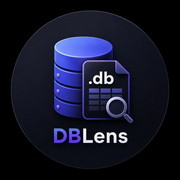
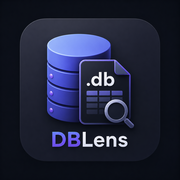
Add files via upload

diff --git a/index.html b/index.html
@@ -69,7 +69,7 @@ body{font-family:-apple-system,BlinkMacSystemFont,'Segoe UI','Inter',Roboto,sans
   animation:fi .5s ease}
 @keyframes fi{from{opacity:0;transform:translateY(10px)}to{opacity:1;transform:none}}
 .l-logo{display:flex;align-items:center;gap:12px;font-size:26px;font-weight:800;letter-spacing:-.5px}
-.l-icon{width:52px;height:52px;border-radius:50%;object-fit:cover;flex-shrink:0}
+.l-icon{width:52px;height:52px;border-radius:14px;object-fit:cover;flex-shrink:0}
 .l-sub{color:var(--t2);font-size:13px;text-align:center;max-width:400px}
 #dz{width:100%;max-width:460px;border:none;border-radius:var(--rl);
   padding:36px 24px;text-align:center;cursor:pointer;background:var(--bg2);transition:all .22s;user-select:none}
@@ -161,7 +161,7 @@ body{font-family:-apple-system,BlinkMacSystemFont,'Segoe UI','Inter',Roboto,sans
   gap:6px;z-index:100;position:relative}
 .h-logo{display:flex;align-items:center;gap:8px;font-weight:800;font-size:14px;
   min-width:calc(var(--sbw) - 10px);flex-shrink:0}
-.h-ico{width:28px;height:28px;border-radius:50%;object-fit:cover;flex-shrink:0}
+.h-ico{width:28px;height:28px;border-radius:7px;object-fit:cover;flex-shrink:0}
 .h-div{width:1px;height:20px;background:var(--bdr);flex-shrink:0;margin:0 2px}
 .h-db{display:flex;align-items:center;gap:6px;font-weight:600;min-width:0;overflow:hidden}
 .h-db #hname{overflow:hidden;text-overflow:ellipsis;white-space:nowrap}
@@ -471,7 +471,7 @@ pre.ddl{background:var(--bg3);border:1px solid var(--bdr);border-radius:var(--r)
 <!-- LANDING -->
 <div id="landing">
   <div class="l-logo">
[2 lines of base64/hex data omitted]
     DBLens
   </div>
   <p class="l-sub">Free SQLite viewer &amp; editor — open .db files directly in your browser, no upload needed</p>
@@ -501,7 +501,7 @@ pre.ddl{background:var(--bg3);border:1px solid var(--bdr);border-radius:var(--r)
 <div id="app">
   <div id="hdr">
     <button class="ham-btn" onclick="openSB()"><span></span><span></span><span></span></button>
[2 lines of base64/hex data omitted]
     <div class="h-div"></div>
     <div class="h-db"><span id="hname">&#8212;</span><span class="h-sz" id="hsize"></span></div>
     <div class="h-sp"></div>
